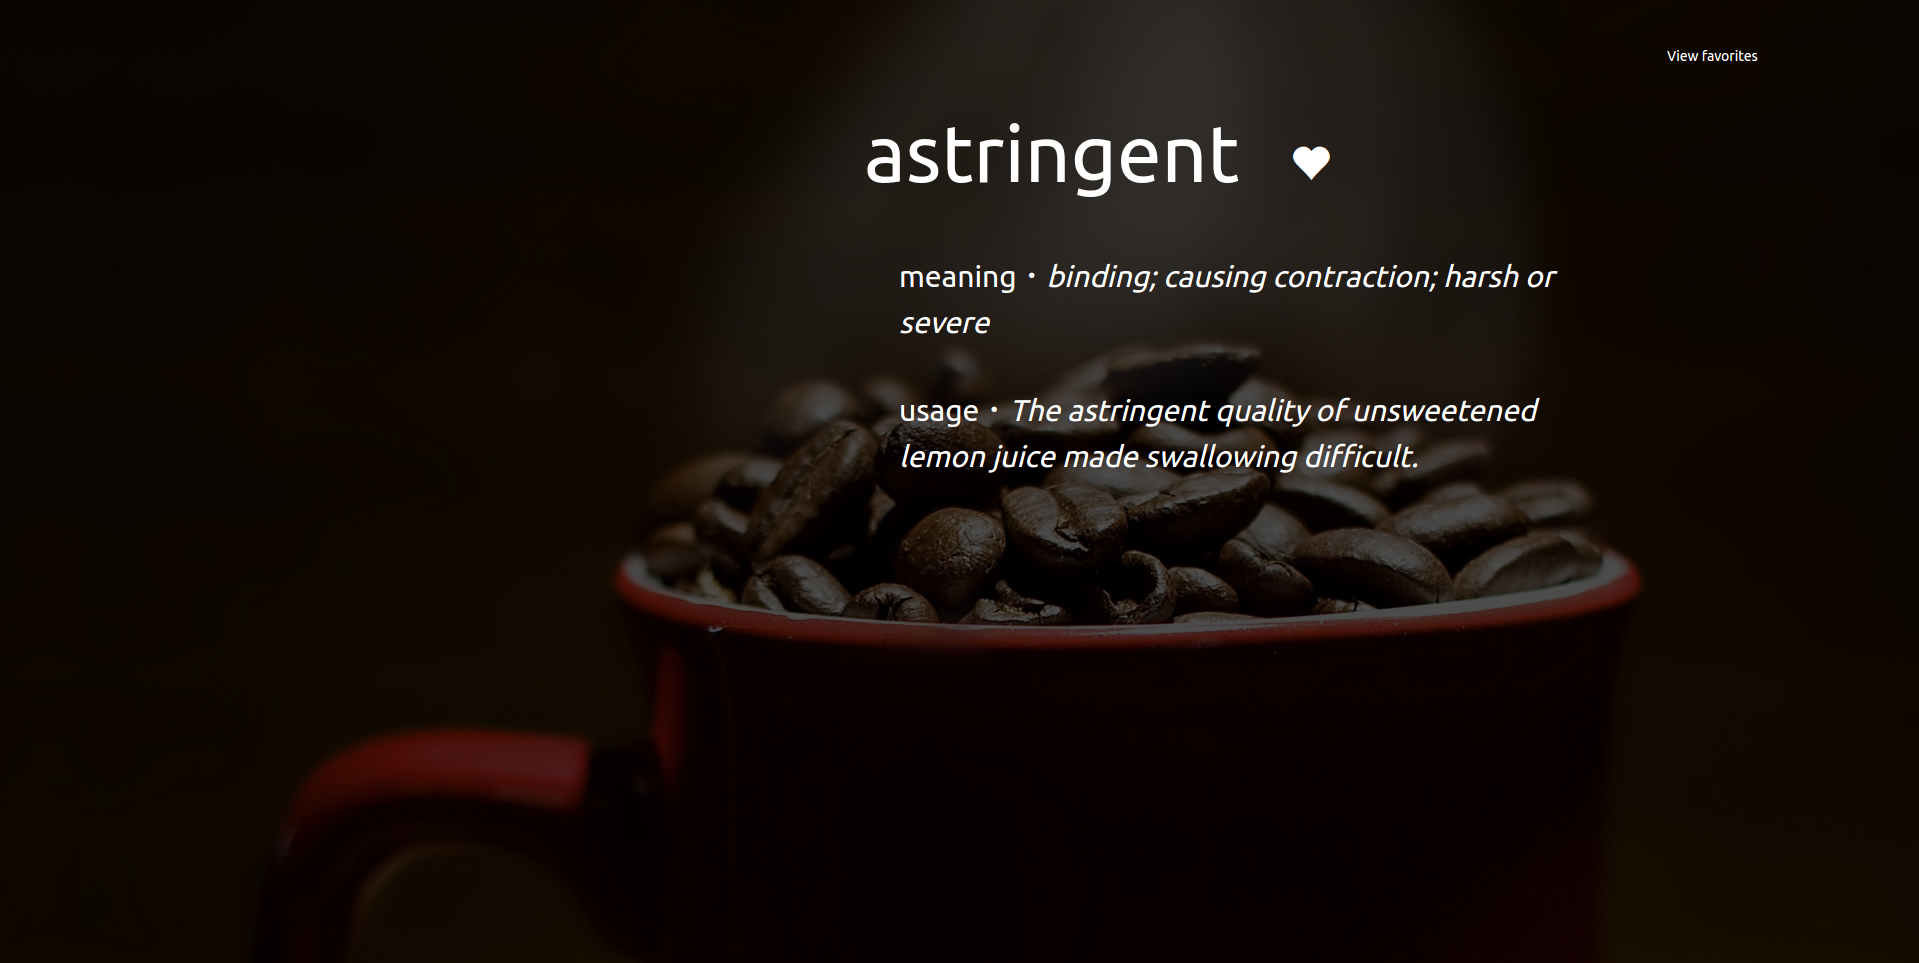
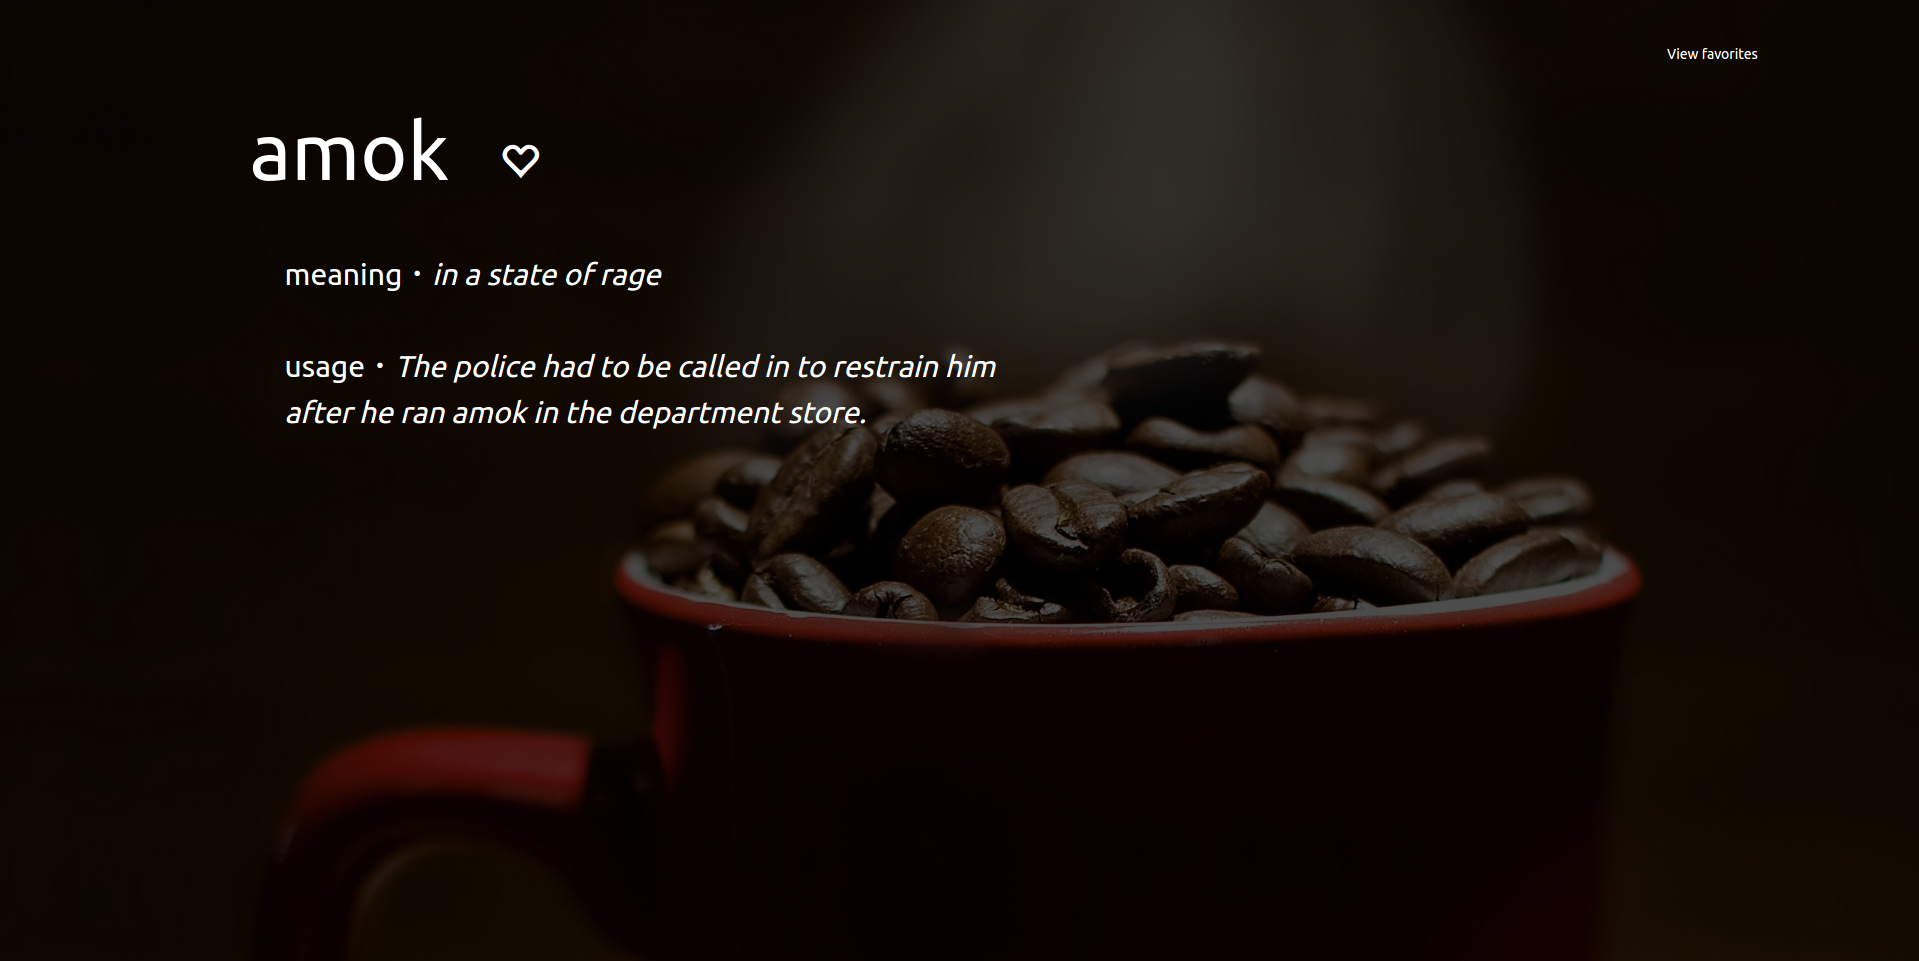
add new image

diff --git a/css/custom.css b/css/custom.css
@@ -14,7 +14,7 @@ img {
 .word{
 	position: fixed;
 	top : 10%;
-	left: 45%;
+	left: 13%;
 	color : #ffffff;
 }
 

diff --git a/README.md b/README.md
@@ -1,5 +1,5 @@
 # Word Tab.
 
-## New tab based Chrome extension that shows a random word from a list every 5 minutes. There's also an option to add the word as favorite.
+## A tab based Chrome extension that shows a random word from a list every 5 minutes. There's also an option to add the word as favorite.
 
 ![Wordtab Image](https://raw.githubusercontent.com/drklrd/word-tab/master/wordtab.png)
